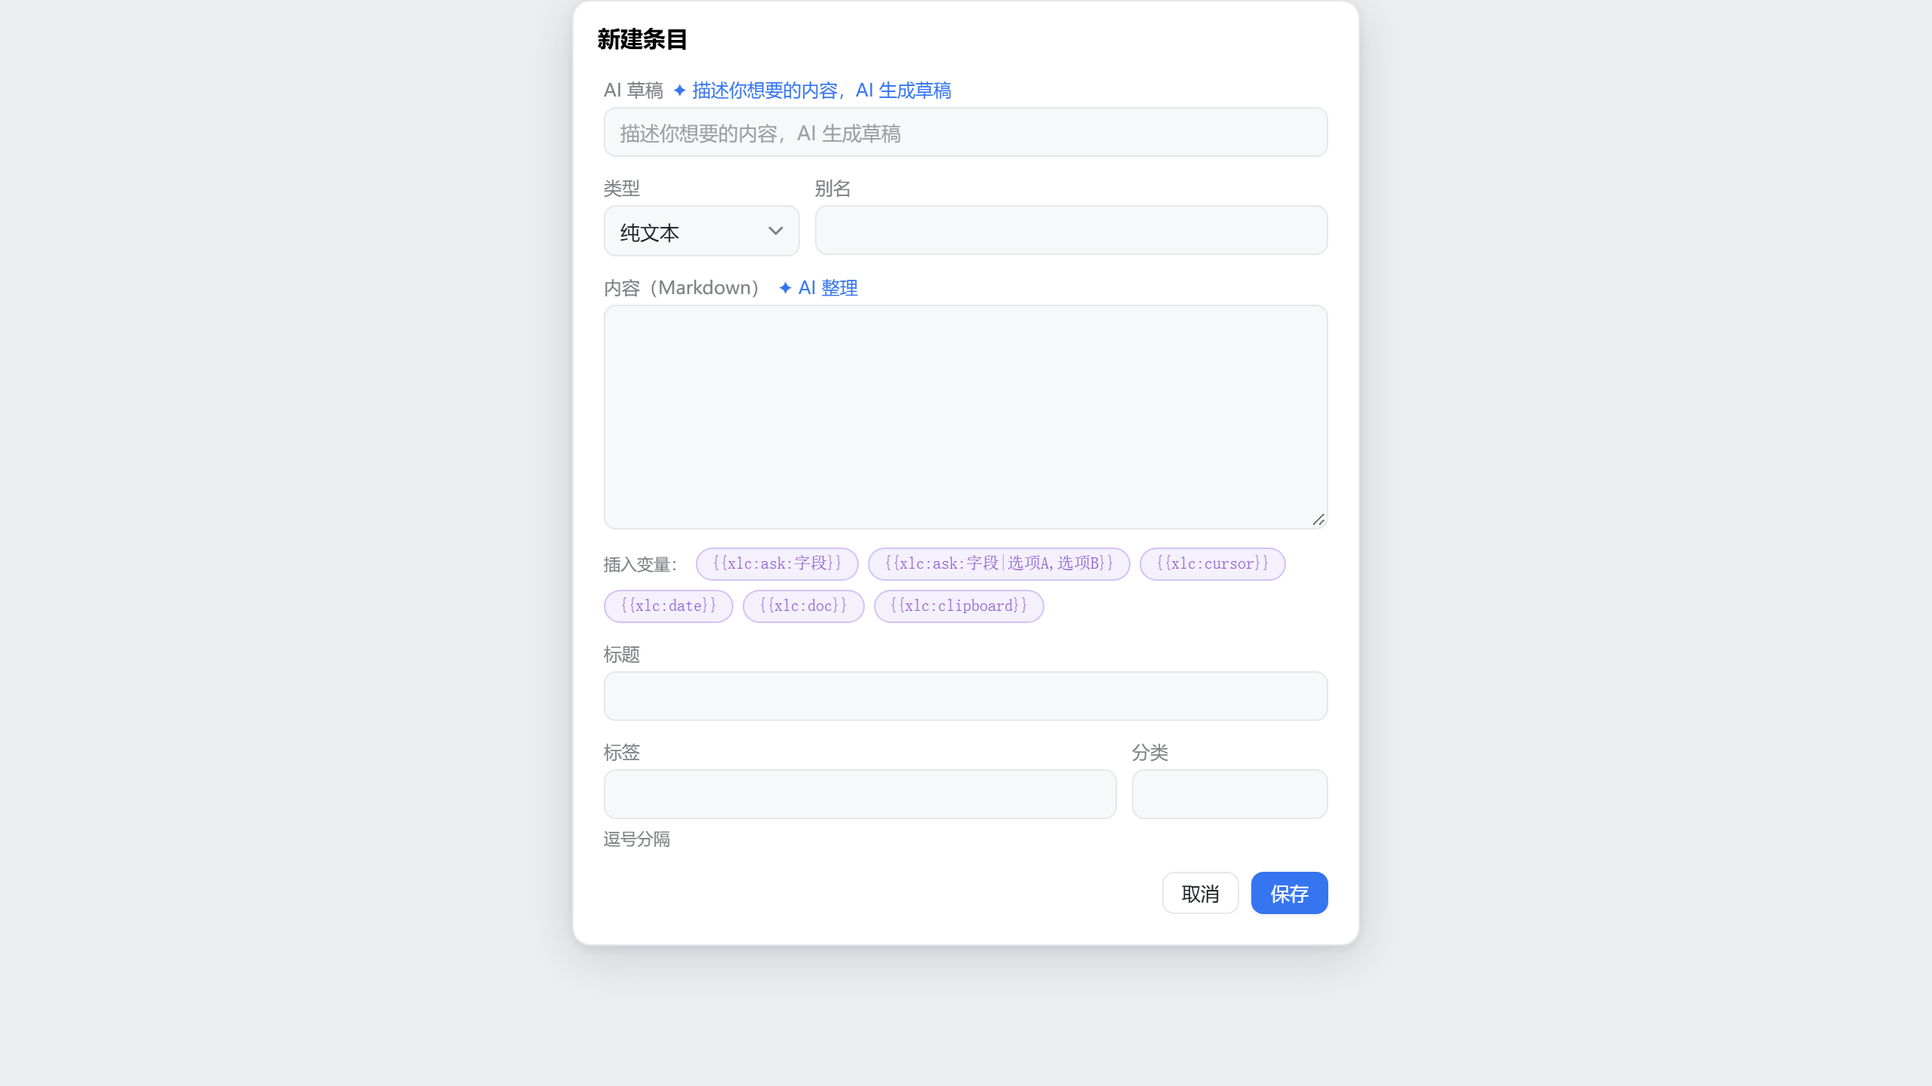
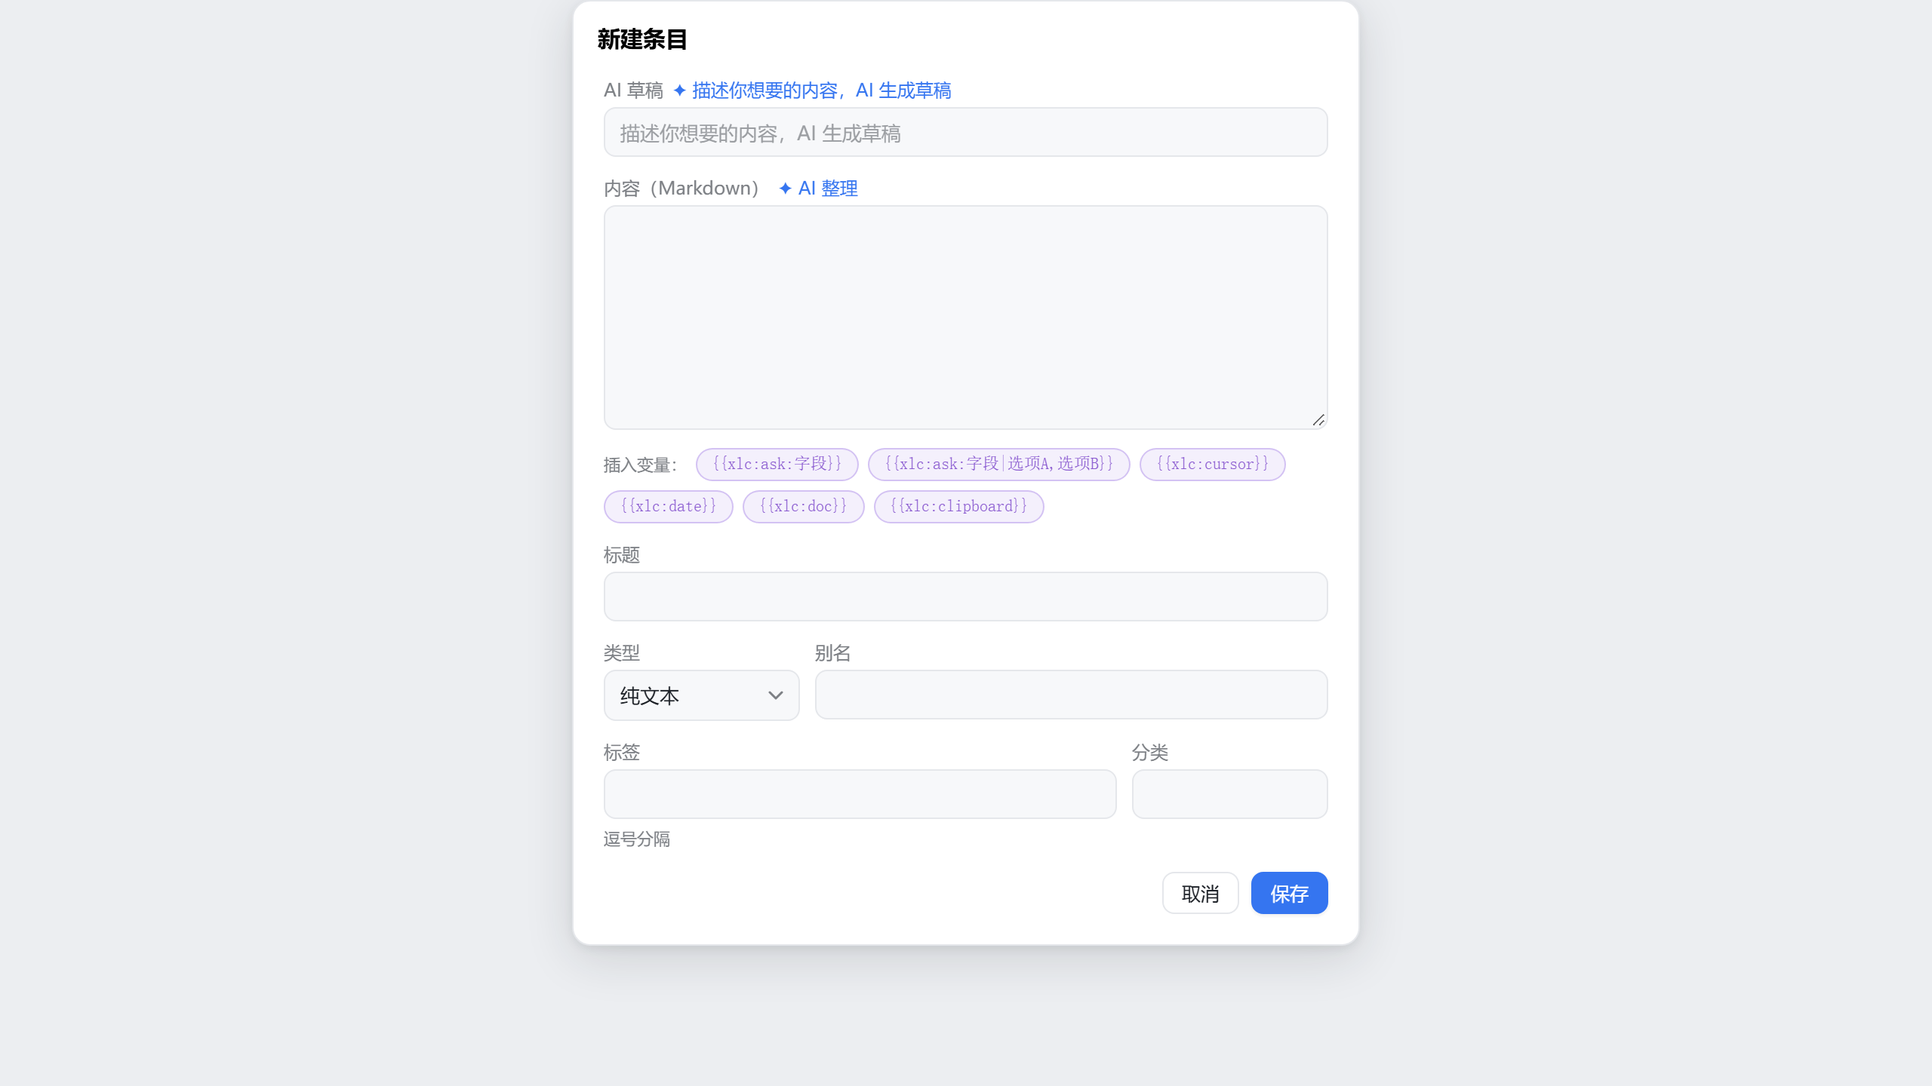
R70：UI 收敛第三轮——捕获字段顺序对齐原型（别名|类型移至标题下）、AI 建议行文案与加粗排版修正、排序 chip 非默认档高亮、设置开关标题+副文本拆分与内容库卡单行；13 组 69 断言全绿（负向验证×1）

diff --git a/docs/design/harness-bundle.js b/docs/design/harness-bundle.js
@@ -663,6 +663,7 @@
       const paintSort = () => {
         const sort = this.deps.getSort();
         sortChip.textContent = "\u21C5 " + this.deps.t(`sort.${sort}`);
+        sortChip.classList.toggle("xlc-chip--on", sort !== "manual");
       };
       paintSort();
       sortChip.addEventListener("click", () => {
@@ -1957,11 +1958,17 @@
     libStatus.className = "xlc-form-hint";
     const cfg = ctx.getConfig();
     libStatus.textContent = cfg ? cfg.mode === "notebook" ? `notebook ${cfg.notebookIds.join(",")}` : `${cfg.mode} \xB7 ${cfg.containerDocIds.length} doc(s)` : t("libraryNone");
-    libSec.appendChild(libStatus);
     const changeBtn = document.createElement("button");
     changeBtn.className = "b3-button";
-    changeBtn.style.alignSelf = "flex-start";
     changeBtn.textContent = t("openSettingsChangeLib");
+    const libRow = document.createElement("div");
+    libRow.className = "xlc-setting-row";
+    const statusText = document.createElement("span");
+    statusText.className = "xlc-setting-text";
+    statusText.textContent = libStatus.textContent;
+    libRow.appendChild(statusText);
+    libRow.appendChild(changeBtn);
+    libSec.appendChild(libRow);
     const pickerHost = document.createElement("div");
     pickerHost.style.display = "none";
     changeBtn.addEventListener("click", () => {
@@ -1971,7 +1978,6 @@
         buildLibraryPickerSection(ctx, pickerHost, () => dialog.destroy());
       }
     });
-    libSec.appendChild(changeBtn);
     libSec.appendChild(pickerHost);
     root.appendChild(libSec);
     buildAiSection(ctx, root);
@@ -2351,29 +2357,18 @@
     aiLabel.className = "xlc-form-label";
     aiLabel.textContent = t("aiSection");
     aiSec.appendChild(aiLabel);
-    const aiRow = (key, text) => {
-      const row = document.createElement("label");
-      row.className = "xlc-setting-row";
-      const box = document.createElement("input");
-      box.type = "checkbox";
-      box.className = "xlc-switch";
-      box.checked = ctx.state.ai[key];
-      box.addEventListener("change", () => {
-        ctx.state.ai[key] = box.checked;
-        if (key === "enabled" && !box.checked) ctx.state.ai.shareContent = false;
+    const aiRow = (key, text, sub) => {
+      const row = buildSwitchRow(text, sub, ctx.state.ai[key], (value) => {
+        ctx.state.ai[key] = value;
+        if (key === "enabled" && !value) ctx.state.ai.shareContent = false;
         ctx.ai.updateSettings(ctx.state.ai);
         ctx.persistSoon();
       });
-      const cap = document.createElement("span");
-      cap.className = "xlc-setting-text";
-      cap.textContent = text;
-      row.appendChild(cap);
-      row.appendChild(box);
       aiSec.appendChild(row);
-      return box;
+      return row.querySelector(".xlc-switch");
     };
-    const aiEnabledBox = aiRow("enabled", t("aiEnabled"));
-    const aiShareBox = aiRow("shareContent", t("aiShareContent"));
+    const aiEnabledBox = aiRow("enabled", t("aiEnabled"), t("aiEnabledSub"));
+    const aiShareBox = aiRow("shareContent", t("aiShareContent"), t("aiShareContentSub"));
     aiEnabledBox.addEventListener("change", () => {
       if (!aiEnabledBox.checked) aiShareBox.checked = false;
     });
@@ -2387,46 +2382,20 @@
     searchLabel.className = "xlc-form-label";
     searchLabel.textContent = t("searchSection");
     searchSec.appendChild(searchLabel);
-    const pinyinRow = document.createElement("label");
-    pinyinRow.className = "xlc-setting-row";
-    const pinyinBox = document.createElement("input");
-    pinyinBox.type = "checkbox";
-    pinyinBox.className = "xlc-switch";
-    pinyinBox.checked = ctx.state.search.pinyin;
-    pinyinBox.addEventListener("change", () => {
-      ctx.state.search.pinyin = pinyinBox.checked;
+    const pinyinRow = buildSwitchRow(t("pinyinToggle"), t("pinyinToggleSub"), ctx.state.search.pinyin, (value) => {
+      ctx.state.search.pinyin = value;
       ctx.applyPinyinAdapter();
       ctx.persistSoon();
       void ctx.library.reindex().then((idx) => {
         ctx.notify("info", t("reindexDone", String(idx.entries.length)));
       });
     });
-    const pinyinCap = document.createElement("span");
-    pinyinCap.className = "xlc-setting-text";
-    pinyinCap.textContent = t("pinyinToggle");
-    pinyinRow.appendChild(pinyinCap);
-    pinyinRow.appendChild(pinyinBox);
     searchSec.appendChild(pinyinRow);
-    const phRow = document.createElement("label");
-    phRow.className = "xlc-setting-row";
-    const phBox = document.createElement("input");
-    phBox.type = "checkbox";
-    phBox.className = "xlc-switch";
-    phBox.checked = ctx.state.search.placeholders;
-    phBox.addEventListener("change", () => {
-      ctx.state.search.placeholders = phBox.checked;
+    const phRow = buildSwitchRow(t("placeholdersToggle"), t("placeholdersToggleSub"), ctx.state.search.placeholders, (value) => {
+      ctx.state.search.placeholders = value;
       ctx.persistSoon();
     });
-    const phCap = document.createElement("span");
-    phCap.className = "xlc-setting-text";
-    phCap.textContent = t("placeholdersToggle");
-    phRow.appendChild(phCap);
-    phRow.appendChild(phBox);
     searchSec.appendChild(phRow);
-    const phHint = document.createElement("span");
-    phHint.className = "xlc-form-hint";
-    phHint.textContent = t("placeholdersHint");
-    searchSec.appendChild(phHint);
     root.appendChild(searchSec);
   }
   function buildDataSection(ctx, root) {
@@ -2850,7 +2819,6 @@
       }
       typeWrap.appendChild(typeSelect);
       metaRow.appendChild(typeWrap);
-      form.appendChild(metaRow);
       const contentEl = field(t("contentLabel"), defaultText, true, "xlc-form-content");
       const varbar = document.createElement("div");
       varbar.className = "xlc-varbar";
@@ -2885,6 +2853,7 @@
       }
       contentEl.parentElement.after(varbar);
       const titleEl = field(t("title"), (_a = overrides == null ? void 0 : overrides.title) != null ? _a : "", false, "xlc-form-title");
+      form.appendChild(metaRow);
       const aliasEl = field(t("alias"), "", false, "xlc-form-alias", metaRow);
       const tagRow = document.createElement("div");
       tagRow.className = "xlc-form-row";
@@ -2938,12 +2907,24 @@
                 return;
               }
               suggestions = result;
+              sugText.textContent = "";
+              const lead = document.createElement("span");
+              lead.textContent = "\u2726 " + t("aiSuggestion") + "\uFF1A";
+              sugText.appendChild(lead);
+              if (result.title) {
+                const titleEl2 = document.createElement("b");
+                titleEl2.textContent = result.title;
+                sugText.appendChild(titleEl2);
+              }
               const parts = [
-                result.title ? result.title : "",
                 ((_a2 = result.tags) == null ? void 0 : _a2.length) ? result.tags.join("/") : "",
                 (_b = result.category) != null ? _b : ""
               ].filter(Boolean);
-              sugText.textContent = "\u2726 " + t("aiFound") + "\uFF1A" + parts.join(" \xB7 ");
+              if (parts.length) {
+                const tail = document.createElement("span");
+                tail.textContent = (result.title ? " \xB7 " : "") + parts.join(" \xB7 ");
+                sugText.appendChild(tail);
+              }
               sugrow.style.display = "";
               applySuggestions();
             });
@@ -3194,10 +3175,15 @@
       aiSection: "AI \u52A9\u624B",
       aiEnabled: "\u542F\u7528 AI \u52A9\u624B",
       aiShareContent: "\u5141\u8BB8 AI \u8BFB\u53D6\u6761\u76EE\u5B8C\u6574\u6B63\u6587",
+      aiEnabledSub: "\u4F7F\u7528\u601D\u6E90 \u8BBE\u7F6E\u2192\u4EBA\u5DE5\u667A\u80FD \u7684\u6A21\u578B\uFF0C\u63D2\u4EF6\u4E0D\u4FDD\u5B58\u5BC6\u94A5",
+      aiShareContentSub: "\u6574\u7406/\u53D8\u6362/\u8349\u7A3F\u9700\u8981\uFF1B\u5173\u95ED\u65F6\u4EC5\u5143\u6570\u636E",
       searchSection: "\u641C\u7D22",
       pinyinToggle: "\u62FC\u97F3\u641C\u7D22",
       placeholdersToggle: "\u52A8\u6001\u5360\u4F4D\u7B26",
       placeholdersHint: "\u652F\u6301 {{xlc:date}} \u7B49",
+      pinyinToggleSub: "\u5168\u62FC/\u9996\u5B57\u6BCD\u672C\u5730\u5339\u914D",
+      placeholdersToggleSub: "\u63D2\u5165\u65F6\u66FF\u6362 {{xlc:date}} \u7B49\u4E3A\u5F53\u524D\u65E5\u671F\u65F6\u95F4",
+      aiSuggestion: "AI \u5EFA\u8BAE",
       dataSection: "\u6570\u636E\uFF08\u5BFC\u51FA / \u5BFC\u5165\uFF09",
       librarySection: "\u5F53\u524D\u5185\u5BB9\u5E93",
       libraryNone: "\u672A\u914D\u7F6E",

diff --git a/src/ui/settings-dialog.ts b/src/ui/settings-dialog.ts
@@ -101,11 +101,18 @@ export function openSettingsDialog(ctx: SettingsUiContext): void {
     libStatus.textContent = cfg
         ? (cfg.mode === "notebook" ? `notebook ${cfg.notebookIds.join(",")}` : `${cfg.mode} · ${cfg.containerDocIds.length} doc(s)`)
         : t("libraryNone");
-    libSec.appendChild(libStatus);
     const changeBtn = document.createElement("button");
     changeBtn.className = "b3-button";
-    changeBtn.style.alignSelf = "flex-start";
     changeBtn.textContent = t("openSettingsChangeLib");
+    // 原型屏 5：状态与按钮同行（状态左、按钮右贴）
+    const libRow = document.createElement("div");
+    libRow.className = "xlc-setting-row";
+    const statusText = document.createElement("span");
+    statusText.className = "xlc-setting-text";
+    statusText.textContent = libStatus.textContent;
+    libRow.appendChild(statusText);
+    libRow.appendChild(changeBtn);
+    libSec.appendChild(libRow);
     const pickerHost = document.createElement("div");
     pickerHost.style.display = "none";
     changeBtn.addEventListener("click", () => {
@@ -115,7 +122,6 @@ export function openSettingsDialog(ctx: SettingsUiContext): void {
             buildLibraryPickerSection(ctx, pickerHost, () => dialog.destroy());
         }
     });
-    libSec.appendChild(changeBtn);
     libSec.appendChild(pickerHost);
     root.appendChild(libSec);
 
@@ -523,29 +529,18 @@ function buildAiSection(ctx: SettingsUiContext, root: HTMLElement): void {
     aiLabel.className = "xlc-form-label";
     aiLabel.textContent = t("aiSection");
     aiSec.appendChild(aiLabel);
-    const aiRow = (key: "enabled" | "shareContent", text: string): HTMLInputElement => {
-        const row = document.createElement("label");
-        row.className = "xlc-setting-row";
-        const box = document.createElement("input");
-        box.type = "checkbox";
-        box.className = "xlc-switch";
-        box.checked = ctx.state.ai[key];
-        box.addEventListener("change", () => {
-            ctx.state.ai[key] = box.checked;
-            if (key === "enabled" && !box.checked) ctx.state.ai.shareContent = false;
+    const aiRow = (key: "enabled" | "shareContent", text: string, sub: string): HTMLInputElement => {
+        const row = buildSwitchRow(text, sub, ctx.state.ai[key], (value) => {
+            ctx.state.ai[key] = value;
+            if (key === "enabled" && !value) ctx.state.ai.shareContent = false;
             ctx.ai.updateSettings(ctx.state.ai);
             ctx.persistSoon();
         });
-        const cap = document.createElement("span");
-        cap.className = "xlc-setting-text";
-        cap.textContent = text;
-        row.appendChild(cap);
-        row.appendChild(box);
         aiSec.appendChild(row);
-        return box;
+        return row.querySelector<HTMLInputElement>(".xlc-switch") as HTMLInputElement;
     };
-    const aiEnabledBox = aiRow("enabled", t("aiEnabled"));
-    const aiShareBox = aiRow("shareContent", t("aiShareContent"));
+    const aiEnabledBox = aiRow("enabled", t("aiEnabled"), t("aiEnabledSub"));
+    const aiShareBox = aiRow("shareContent", t("aiShareContent"), t("aiShareContentSub"));
     aiEnabledBox.addEventListener("change", () => {
         if (!aiEnabledBox.checked) aiShareBox.checked = false;
     });
@@ -561,47 +556,21 @@ function buildSearchSection(ctx: SettingsUiContext, root: HTMLElement): void {
     searchLabel.className = "xlc-form-label";
     searchLabel.textContent = t("searchSection");
     searchSec.appendChild(searchLabel);
-    const pinyinRow = document.createElement("label");
-    pinyinRow.className = "xlc-setting-row";
-    const pinyinBox = document.createElement("input");
-    pinyinBox.type = "checkbox";
-    pinyinBox.className = "xlc-switch";
-    pinyinBox.checked = ctx.state.search.pinyin;
-    pinyinBox.addEventListener("change", () => {
-        ctx.state.search.pinyin = pinyinBox.checked;
+    const pinyinRow = buildSwitchRow(t("pinyinToggle"), t("pinyinToggleSub"), ctx.state.search.pinyin, (value) => {
+        ctx.state.search.pinyin = value;
         ctx.applyPinyinAdapter();
         ctx.persistSoon();
         void ctx.library.reindex().then((idx) => {
             ctx.notify("info", t("reindexDone", String(idx.entries.length)));
         });
     });
-    const pinyinCap = document.createElement("span");
-    pinyinCap.className = "xlc-setting-text";
-    pinyinCap.textContent = t("pinyinToggle");
-    pinyinRow.appendChild(pinyinCap);
-    pinyinRow.appendChild(pinyinBox);
     searchSec.appendChild(pinyinRow);
     // 占位符开关
-    const phRow = document.createElement("label");
-    phRow.className = "xlc-setting-row";
-    const phBox = document.createElement("input");
-    phBox.type = "checkbox";
-    phBox.className = "xlc-switch";
-    phBox.checked = ctx.state.search.placeholders;
-    phBox.addEventListener("change", () => {
-        ctx.state.search.placeholders = phBox.checked;
+    const phRow = buildSwitchRow(t("placeholdersToggle"), t("placeholdersToggleSub"), ctx.state.search.placeholders, (value) => {
+        ctx.state.search.placeholders = value;
         ctx.persistSoon();
     });
-    const phCap = document.createElement("span");
-    phCap.className = "xlc-setting-text";
-    phCap.textContent = t("placeholdersToggle");
-    phRow.appendChild(phCap);
-    phRow.appendChild(phBox);
     searchSec.appendChild(phRow);
-    const phHint = document.createElement("span");
-    phHint.className = "xlc-form-hint";
-    phHint.textContent = t("placeholdersHint");
-    searchSec.appendChild(phHint);
     root.appendChild(searchSec);
 }
 

diff --git a/src/ui/capture.ts b/src/ui/capture.ts
@@ -185,7 +185,7 @@ export class CaptureDialog {
             return inputEl as HTMLInputElement;
         };
 
-        // 类型（别名同排，原型 v2：别名|类型 双栏）
+        // 类型（别名同排；挂载点在标题之后，原型屏 3 顺序：AI 草稿→内容→建议→标题→别名|类型→标签|分类）
         const metaRow = document.createElement("div");
         metaRow.className = "xlc-form-row";
         const typeWrap = document.createElement("label");
@@ -205,7 +205,6 @@ export class CaptureDialog {
         }
         typeWrap.appendChild(typeSelect);
         metaRow.appendChild(typeWrap);
-        form.appendChild(metaRow);
 
         const contentEl = field(t("contentLabel"), defaultText, true, "xlc-form-content");
         // 变量快捷插入条（F1 捕获侧，原型屏 3）：点选在内容光标处插入变量语法
@@ -241,6 +240,8 @@ export class CaptureDialog {
         }
         (contentEl.parentElement as HTMLElement).after(varbar);
         const titleEl = field(t("title"), overrides?.title ?? "", false, "xlc-form-title");
+        // 原型顺序：标题下方挂 别名|类型 双栏
+        form.appendChild(metaRow);
         const aliasEl = field(t("alias"), "", false, "xlc-form-alias", metaRow);
         // 标签 + 分类（原型：双栏行）
         const tagRow = document.createElement("div");
@@ -298,12 +299,25 @@ export class CaptureDialog {
                             return;
                         }
                         suggestions = result;
+                        // 原型屏 3：「✦ AI 建议：<b>标题</b> · 标签 … · 分类 …」（标题加粗；区别于搜索的「AI 找到的」）
+                        sugText.textContent = "";
+                        const lead = document.createElement("span");
+                        lead.textContent = "✦ " + t("aiSuggestion") + "：";
+                        sugText.appendChild(lead);
+                        if (result.title) {
+                            const titleEl = document.createElement("b");
+                            titleEl.textContent = result.title;
+                            sugText.appendChild(titleEl);
+                        }
                         const parts = [
-                            result.title ? result.title : "",
                             result.tags?.length ? result.tags.join("/") : "",
                             result.category ?? "",
                         ].filter(Boolean);
-                        sugText.textContent = "✦ " + t("aiFound") + "：" + parts.join(" · ");
+                        if (parts.length) {
+                            const tail = document.createElement("span");
+                            tail.textContent = (result.title ? " · " : "") + parts.join(" · ");
+                            sugText.appendChild(tail);
+                        }
                         sugrow.style.display = "";
                         applySuggestions();
                     });

diff --git a/scripts/harness/entry.ts b/scripts/harness/entry.ts
@@ -69,7 +69,10 @@ const T = (key: string, ...args: string[]): string => {
         providerExecutable: "可执行", providerPendingReload: "待重载",
         openSettings: "设置 / 更改内容库", openSettingsChangeLib: "更改内容库",
         aiSection: "AI 助手", aiEnabled: "启用 AI 助手", aiShareContent: "允许 AI 读取条目完整正文",
+        aiEnabledSub: "使用思源 设置→人工智能 的模型，插件不保存密钥", aiShareContentSub: "整理/变换/草稿需要；关闭时仅元数据",
         searchSection: "搜索", pinyinToggle: "拼音搜索", placeholdersToggle: "动态占位符", placeholdersHint: "支持 {{xlc:date}} 等",
+        pinyinToggleSub: "全拼/首字母本地匹配", placeholdersToggleSub: "插入时替换 {{xlc:date}} 等为当前日期时间",
+        aiSuggestion: "AI 建议",
         dataSection: "数据（导出 / 导入）", librarySection: "当前内容库", libraryNone: "未配置",
         reindexBtn: "重建索引", clearRecents: "清空最近使用", clearRecentsConfirm: "清空最近使用记录？",
         exportBtn: "导出全部条目 (JSON)", importBtn: "导入 JSON", exportMdBtn: "导出 Markdown 包（含资源）",

diff --git a/src/ui/dialog.ts b/src/ui/dialog.ts
@@ -307,6 +307,8 @@ export class CommonSearchDialog {
         const paintSort = (): void => {
             const sort = this.deps.getSort();
             sortChip.textContent = "⇅ " + this.deps.t(`sort.${sort}`);
+            // 非默认档高亮（原型屏 1：⇅常用 为选中态）
+            sortChip.classList.toggle("xlc-chip--on", sort !== "manual");
         };
         paintSort();
         sortChip.addEventListener("click", () => {

diff --git a/docs/dev-plan-2026-10-06.md b/docs/dev-plan-2026-10-06.md
@@ -841,3 +841,24 @@
 - openImportPolicyDialog 导出 + harness openImport：新增 production-import-policy-light.png；生产对话框补原型屏 8 的元数据徽标行（「18 条目」+「N 条格式无效将跳过」）。
 - UI smoke 增至 13 组 66 断言（desktop +4：kbdAltChips/favmarkGone/paneVarsCursor；narrow +1：kbd 隐藏；import-policy 5 项）。
 - 门禁负向验证：移除 ⌥1-9 kbd → `kbdAltChips` 精准失败，恢复复验全绿（168 测试 + 13 组 smoke）。
+
+## R70 轮（2026-10-07 UI 原型符合度收敛第三轮：捕获顺序/文案语义/设置排版）
+
+### R70-T1 捕获表单对齐原型屏 3 | 完成
+
+- 字段顺序修正：类型|别名双栏行从「内容上方」移到「标题下方」（原型顺序：AI 草稿→内容→建议→标题→别名|类型→标签|分类）。
+- AI 建议行文案修正：误用「AI 找到的」（搜索语义）→「✦ AI 建议：<b>标题</b> · 标签/分类」结构化排版（标题加粗、尾部元数据分离）。
+
+### R70-T2 设置排版对齐原型屏 5 | 完成
+
+- 四个开关的括号长说明拆为「标题 + 副文本」两行式（AI×2/拼音/占位符；i18n 键拆分，中英同步）。
+- 内容库卡改单行：状态文本左 + 「更改内容库」按钮右贴（原上下堆叠）。
+
+### R70-T3 排序 chip 状态 | 完成
+
+- 非默认排序档（最近/常用/标题）时排序 chip 高亮（xlc-chip--on），手动/置顶为默认不亮——原型屏 1「⇅常用」选中态。
+
+### 门禁与回归
+
+- 测试 168/168、tsc/构建全绿；UI smoke 13 组 69 断言全绿（capture +1 字段顺序、capture-ai +1 建议行文案、settings +1 副文本）。
+- 门禁负向验证：把类型|别名行移回标题之前 → `metaRowAfterTitle` 精准失败，恢复复验全绿。
